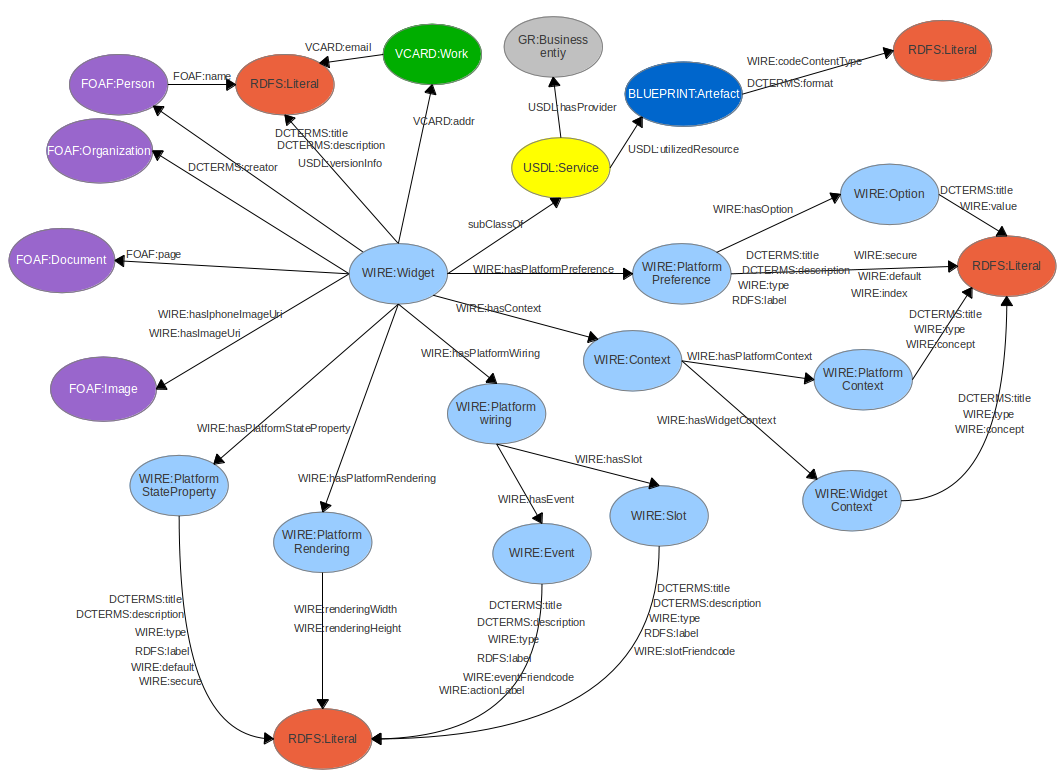
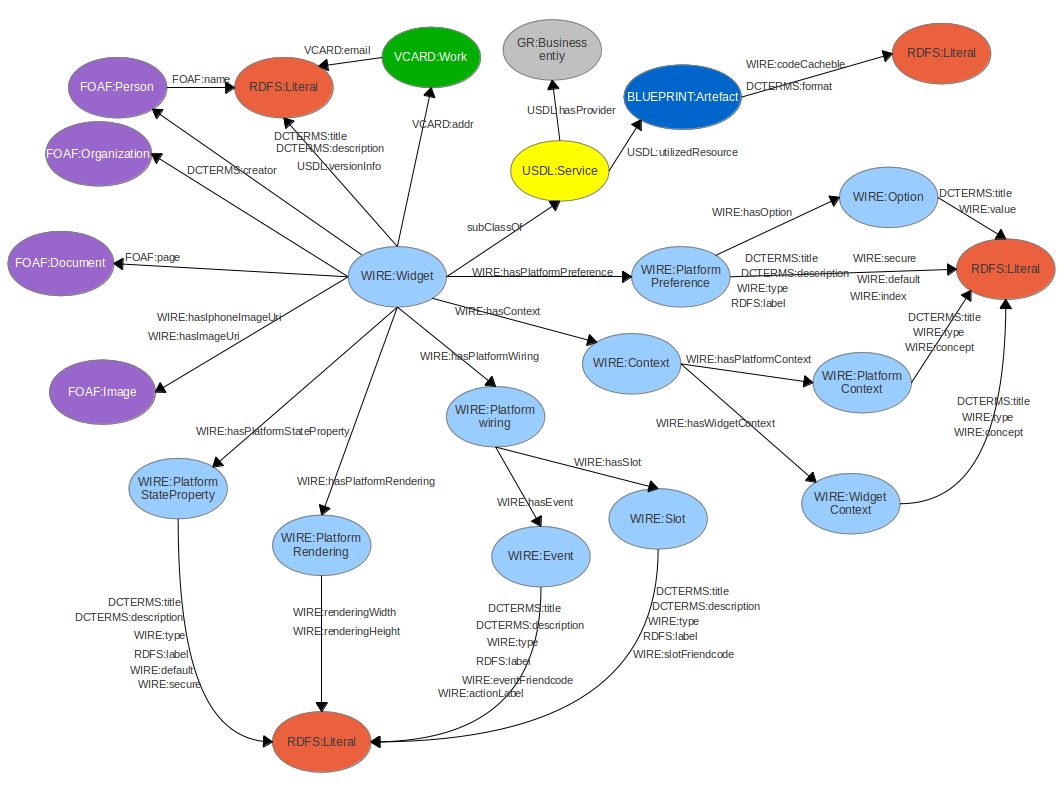
Remove support for changin widget menu colors
This is done by:
* Removing menucolor from rdf schema and fix datamodel image
* Removing code for this feature

diff --git a/src/wirecloud/static/js/dragboard/dragboard.js b/src/wirecloud/static/js/dragboard/dragboard.js
@@ -213,7 +213,7 @@ function Dragboard(tab, workSpace, dragboardElement) {
 
     Dragboard.prototype.parseTab = function (tabInfo) {
         var curIGadget, position, icon_position, zPos, width, height, igadget,
-            gadget, gadgetid, minimized, layout, menu_color, refusedVersion,
+            gadget, gadgetid, minimized, layout, refusedVersion,
             opManager, i, readOnly;
 
         opManager = OpManagerFactory.getInstance();
@@ -265,7 +265,6 @@ function Dragboard(tab, workSpace, dragboardElement) {
                                   curIGadget.fulldragboard,
                                   curIGadget.minimized,
                                   curIGadget.transparency,
-                                  curIGadget.menu_color,
                                   curIGadget.refused_version,
                                   false,
                                   readOnly);
@@ -323,7 +322,7 @@ function Dragboard(tab, workSpace, dragboardElement) {
         }
 
         // Create the instance
-        var iGadget = new IGadget(gadget, null, options.igadgetName, layout, null, null, null, width, height, false, minimized, false, gadget.getMenuColor(), null, freeLayoutAfterLoading, false);
+        var iGadget = new IGadget(gadget, null, options.igadgetName, layout, null, null, null, width, height, false, minimized, false, null, freeLayoutAfterLoading, false);
 
         iGadget.save(options);
     };

diff --git a/src/wirecloud/static/js/gadgetModel/Gadget.js b/src/wirecloud/static/js/gadgetModel/Gadget.js
@@ -79,7 +79,6 @@ function Gadget(gadget_, url_, options_) {
     this.getImage = function() { return state.getImage(); }
     this.setImage = function(image_) { state.setImage(image_); }
     this.getIcon = function() { return state.getIcon(); }
-    this.getMenuColor = function() { return state.getMenuColor(); }
     this.isUpToDate = function() { return state.isUpToDate(); }
     this.setLastVersion = function(lastVersion) { return state.setLastVersion(lastVersion); }
     this.getLastVersion = function(){return state.getLastVersion();}
@@ -161,7 +160,6 @@ function GadgetState(gadget_) {
     var icon = gadget_.iPhoneImageURI;
     var capabilities = gadget_.capabilities;
     var uriwiki = gadget_.wikiURI;
-    var menuColor = gadget_.menuColor;
     var lastVersion = version;
     var showcaseLastVersion = version;
     var catalogueLastVersion = null;
@@ -187,7 +185,6 @@ function GadgetState(gadget_) {
     this.getImage = function() { return image; }
     this.setImage = function(image_) { image = image_; }
     this.getIcon = function() { return (icon!="") ? icon :  image;  }
-    this.getMenuColor = function () {return menuColor;}
     this.isUpToDate = function() { return upToDate; }
     this.getLastVersion = function() {
         if (lastVersion == null) {

diff --git a/src/wirecloud/static/js/dragboard/iGadget.js b/src/wirecloud/static/js/dragboard/iGadget.js
@@ -61,7 +61,7 @@
  * @param {String}            menu_color    background color for the menu.
  *                                          (6 chars with a hexadecimal color)
  */
-function IGadget(gadget, iGadgetId, iGadgetName, layout, position, iconPosition, zPos, width, height, fulldragboard, minimized, transparency, menu_color, refusedVersion, freeLayoutAfterLoading, readOnly) {
+function IGadget(gadget, iGadgetId, iGadgetName, layout, position, iconPosition, zPos, width, height, fulldragboard, minimized, transparency, refusedVersion, freeLayoutAfterLoading, readOnly) {
     this.logManager = new IGadgetLogManager(this);
     this.id = iGadgetId;
     this.code = null;
@@ -141,7 +141,6 @@ function IGadget(gadget, iGadgetId, iGadgetName, layout, position, iconPosition,
     layout.addIGadget(this, true);
 
     StyledElements.ObjectWithEvents.call(this, ['load', 'unload']);
-    this.menu_color = menu_color ? menu_color : "FFFFFF";
     //this.menu_color = IGadgetColorManager.autogenColor(menu_color, this.code);
 
     this.prefCallback = null;

diff --git a/src/wirecloudcommons/utils/template.py b/src/wirecloudcommons/utils/template.py
@@ -61,7 +61,6 @@ CONTEXT_XPATH = '/t:Template/t:Platform.Context'
 GADGET_CONTEXT_XPATH = 't:GadgetContext'
 PLATFORM_CONTEXT_XPATH = 't:Context'
 PLATFORM_RENDERING_XPATH = '/t:Template/t:Platform.Rendering'
-MENUCOLOR_XPATH = '/t:Template/t:MenuColor'
 REQUIRE_XPATH = 't:Require'
 
 INCLUDED_RESOURCES_XPATH = 't:IncludedResources'
@@ -413,8 +412,6 @@ class USDLTemplateParser(object):
 
         self._info['gadget_width'] = self._get_field(WIRE, 'renderingWidth', rendering_element, required=False)
         self._info['gadget_height'] = self._get_field(WIRE, 'renderingHeight', rendering_element, required=False)
-
-        self._info['gadget_menucolor'] = self._get_field(WIRE, 'hasPlatformMenucolor', self._rootURI, required=False)
 
     def _parse_translation_catalogue(self):
         self._info['default_lang'] = 'en'
@@ -848,8 +845,6 @@ class WirecloudTemplateParser(object):
         rendering_element = self._xpath(PLATFORM_RENDERING_XPATH, self._doc)[0]
         self._info['gadget_width'] = rendering_element.get('width')
         self._info['gadget_height'] = rendering_element.get('height')
-
-        self._info['gadget_menucolor'] = self._get_field(MENUCOLOR_XPATH, self._doc, required=False)
 
     def _parse_workspace_info(self):
 

diff --git a/src/wirecloud/workspace/tests.py b/src/wirecloud/workspace/tests.py
@@ -159,8 +159,7 @@ class WorkspaceTestCase(CacheTestCase):
             'zIndex': 1,
             'layout': 0,
             'icon_top': 0,
-            'icon_left': 0,
-            'menu_color': '',
+            'icon_left': 0
         }
         Gadget.objects.get(pk=1).users.add(self.user)
         SaveIGadget(igadget_data, self.user, tab, {})
@@ -219,8 +218,7 @@ class WorkspaceCacheTestCase(CacheTestCase):
             'zIndex': 1,
             'layout': 0,
             'icon_top': 0,
-            'icon_left': 0,
-            'menu_color': '',
+            'icon_left': 0
         }
         Gadget.objects.get(pk=1).users.add(self.user)
         SaveIGadget(igadget_data, self.user, tab, {})

diff --git a/src/wirecloud/workspace/mashupTemplateParser.py b/src/wirecloud/workspace/mashupTemplateParser.py
@@ -149,7 +149,6 @@ def fillWorkspaceUsingTemplate(workspace, template):
                 "width": int(rendering.get('width')),
                 "height": int(rendering.get('height')),
                 "name": resource.get('title'),
-                "menu_color": "FFFFFF",
                 "layout": int(rendering.get('layout')),
                 "gadget": gadget.uri,
             }

diff --git a/src/commons/get_data.py b/src/commons/get_data.py
@@ -343,7 +343,6 @@ def get_gadget_data(gadget):
     data_ret['wikiURI'] = tgadget.wikiURI
     data_ret['imageURI'] = tgadget.imageURI
     data_ret['iPhoneImageURI'] = tgadget.iPhoneImageURI
-    data_ret['menuColor'] = gadget.menuColor
     data_ret['version'] = gadget.version
     data_ret['mail'] = gadget.mail
     data_ret['last_update'] = gadget.last_update

diff --git a/src/wirecloud/widget/models.py b/src/wirecloud/widget/models.py
@@ -74,8 +74,6 @@ class Gadget(TransModel):
     height = models.IntegerField(_('Height'), default=1)
     description = models.TextField(_('Description'))
 
-    menuColor = models.CharField(max_length=6, default="FFFFFF")
-
     users = models.ManyToManyField(User, verbose_name=_('Users'))
     last_update = models.DateTimeField(_('Last update'), null=True)
 

diff --git a/src/wirecloud/widget/utils.py b/src/wirecloud/widget/utils.py
@@ -103,7 +103,6 @@ def create_gadget_from_template(template, user, request=None, base=None):
     gadget.iPhoneImageURI = gadget_info['iphone_image_uri']
     gadget.width = gadget_info['gadget_width']
     gadget.height = gadget_info['gadget_height']
-    gadget.menuColor = gadget_info['gadget_menucolor']
 
     gadget.save()
 
